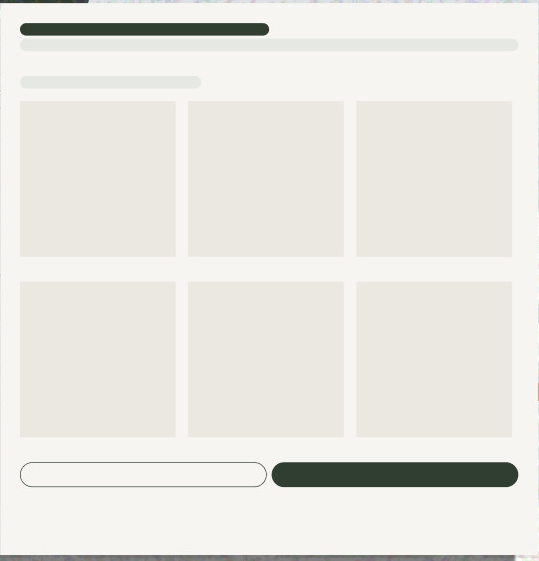
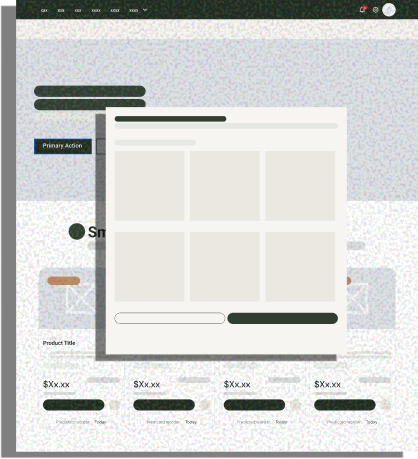
update pawhaus

diff --git a/case-studies/pethaus.html b/case-studies/pethaus.html
@@ -381,7 +381,7 @@
     .ph-solution-fan { position: relative; width: 100%; max-width: 1000px; height: 380px; margin: 0 auto; }
     .ph-solution-fan__card {
       position: absolute; top: 50%; width: 19%; aspect-ratio: 0.82;
-      border-radius: 10px; overflow: hidden; box-shadow: 0 20px 40px rgba(33,40,26,0.28);
+      border-radius: 0; overflow: hidden; box-shadow: 0 20px 40px rgba(33,40,26,0.28);
       cursor: pointer; transition: transform 0.45s cubic-bezier(0.22,1,0.36,1), box-shadow 0.45s ease;
     }
     .ph-solution-fan__card img { width: 100%; height: 100%; object-fit: cover; object-position: top; display: block; }
@@ -392,6 +392,12 @@
     .ph-solution-fan__card:nth-child(5) { left: 76%; transform: translate(-50%,-50%) rotate(11deg);  z-index: 5; }
     .ph-solution-fan__card:nth-child(6) { left: 92%; transform: translate(-50%,-50%) rotate(18deg);  z-index: 6; }
     .ph-solution-fan__card:hover { transform: translate(-50%,-50%) rotate(0deg) scale(1.15) translateY(-16px); z-index: 10; box-shadow: 0 30px 55px rgba(33,40,26,0.4); }
+    /* The mobile carousel's JS clones each card (aria-hidden, for a seamless auto-loop) and
+       appends them into this same container — only the first 6 (:nth-child(1..6)) have a
+       desktop left/rotate rule above, so on desktop the clones fell back to unstyled default
+       positioning and showed up as a stray stack. Hidden here; the mobile media query below
+       turns them back on for the carousel. */
+    .ph-solution-fan__card[aria-hidden="true"] { display: none; }
 
     /* Each "move" repeats: left-aligned tag pill, centered title + hand-written quote,
        left-aligned body copy, then a dark mockup card exported as a flat image (label and
@@ -478,18 +484,36 @@
       .ph-comp-card__inner, .ph-pattern-card__inner { box-shadow: 0 12px 24px rgba(0,0,0,0.25); }
 
       /* Screen fan: the hover-to-front interaction needs a mouse, and the rotated deck
-         reads as clutter at narrow widths — drop it to a plain static row the same way
-         the pattern/comp cards do. */
-      .ph-solution-fan { height: auto; display: flex; flex-wrap: wrap; justify-content: center; gap: 16px; max-width: 100%; }
-      /* Prefixed with .ph-solution-fan (raising specificity above the bare
-         .ph-solution-fan__card:nth-child(n) desktop rules) so this reliably wins
-         regardless of source order or how the browser scores a comma-separated list. */
+         reads as clutter at narrow widths — swap to a continuously auto-scrolling
+         filmstrip instead (JS drives scrollLeft directly every frame, so no scroll-snap —
+         snapping would fight the continuous motion). Scrollbar hidden since position is
+         fully driven by the auto-loop, not manual scrolling, though the strip can still
+         be dragged (auto-loop pauses on touch — see the script block). The centered card
+         is tracked in JS (touch has no :hover) and scaled up via .is-active, and its
+         matching caption word gets the same treatment. Prefixed with .ph-solution-fan to
+         reliably outrank the bare desktop nth-child rules. */
+      .ph-solution-fan {
+        height: auto; display: flex; flex-wrap: nowrap; align-items: center;
+        overflow-x: auto; gap: 16px; scrollbar-width: none; -ms-overflow-style: none;
+        max-width: 100%; padding: 20px calc(50% - 65px); -webkit-overflow-scrolling: touch;
+      }
+      .ph-solution-fan::-webkit-scrollbar { display: none; }
       .ph-solution .ph-solution-fan .ph-solution-fan__card {
-        position: static; width: 130px; transform: none; box-shadow: 0 8px 16px rgba(33,40,26,0.2);
+        position: static; flex: 0 0 130px; width: 130px; transform: scale(0.85); opacity: 0.55;
+        box-shadow: 0 8px 16px rgba(33,40,26,0.2);
+        transition: transform 0.3s ease, opacity 0.3s ease, box-shadow 0.3s ease;
       }
-      .ph-solution .ph-solution-fan .ph-solution-fan__card:hover {
-        transform: translateY(-6px); box-shadow: 0 14px 26px rgba(33,40,26,0.28);
+      /* Turn the cloned cards (hidden by default, see the desktop rule) back on here —
+         the carousel's seamless loop needs them. */
+      .ph-solution-fan__card[aria-hidden="true"] { display: block; }
+      /* !important here: this state class needs to unconditionally win regardless of the
+         unconditional desktop :nth-child(n) rotate rules still technically in scope at this
+         viewport (they lose the cascade to the mobile base rule already, but not reliably to
+         this even-higher-specificity .is-active rule — !important removes any ambiguity). */
+      .ph-solution .ph-solution-fan .ph-solution-fan__card.is-active {
+        transform: scale(1.1) !important; opacity: 1 !important; box-shadow: 0 14px 28px rgba(33,40,26,0.32) !important;
       }
+      .ph-solution-flow__stage.is-active { font-weight: 700 !important; color: var(--ink-dark) !important; transform: scale(1.15) !important; }
 
       /* Persona rows: photo-beside-text only works with room to breathe — stack photo
          above the text column instead of squeezing both into a shared row. The desktop
@@ -963,7 +987,7 @@
               <div class="ph-solution-fan__card"><img src="../Asset/pethaus-solution-screen-productdetail.png" alt="Product Detail"></div>
               <div class="ph-solution-fan__card"><img src="../Asset/pethaus-solution-screen-checkout.png" alt="Checkout"></div>
             </div>
-            <p class="ph-solution-flow__caption"><span class="ph-solution-flow__stage" data-stage="1">Homepage</span> &rarr; <span class="ph-solution-flow__stage" data-stage="2">Build Pet Profile</span> &rarr; <span class="ph-solution-flow__stage" data-stage="3">Filtered Product List</span> &rarr; <span class="ph-solution-flow__stage" data-stage="4">Product Tag</span> &rarr; <span class="ph-solution-flow__stage" data-stage="5">Product Detail (trust tags + ingredient breakdown)</span> &rarr; <span class="ph-solution-flow__stage" data-stage="6">Checkout with reorder reminder</span>. Hover a screen to bring it forward.</p>
+            <p class="ph-solution-flow__caption"><span class="ph-solution-flow__stage" data-stage="1">Homepage</span> &rarr; <span class="ph-solution-flow__stage" data-stage="2">Build Pet Profile</span> &rarr; <span class="ph-solution-flow__stage" data-stage="3">Filtered Product List</span> &rarr; <span class="ph-solution-flow__stage" data-stage="4">Product Tag</span> &rarr; <span class="ph-solution-flow__stage" data-stage="5">Product Detail (trust tags + ingredient breakdown)</span> &rarr; <span class="ph-solution-flow__stage" data-stage="6">Checkout with reorder reminder</span>.<br>Hover a screen to bring it forward.</p>
           </div>
         </div>
 
@@ -1227,6 +1251,78 @@
         hamburger.setAttribute('aria-expanded', 'false');
       });
     });
+
+    // Solution screen fan → mobile/tablet carousel: a continuously auto-scrolling
+    // filmstrip (left to right, one full pass through all 6 screens every 10s) that
+    // wraps seamlessly by scrolling into a cloned second copy of the deck and never
+    // visibly resetting. Whichever card is nearest the center gets .is-active — same
+    // class the desktop hover version uses — so its matching caption word bolds and
+    // scales up too. Pauses on touch (so a manual swipe isn't fought by the loop) and
+    // while the tab or section is out of view; respects prefers-reduced-motion.
+    (function () {
+      const fan = document.querySelector('.ph-solution-fan');
+      if (!fan) return;
+      const originalCards = Array.from(fan.querySelectorAll('.ph-solution-fan__card'));
+      const stages = Array.from(document.querySelectorAll('.ph-solution-flow__stage'));
+      const carouselQuery = window.matchMedia('(max-width: 1024px)');
+      const reducedMotion = window.matchMedia('(prefers-reduced-motion: reduce)');
+      const LOOP_DURATION = 10000;
+
+      originalCards.forEach(card => {
+        const clone = card.cloneNode(true);
+        clone.setAttribute('aria-hidden', 'true');
+        fan.appendChild(clone);
+      });
+      const allCards = Array.from(fan.querySelectorAll('.ph-solution-fan__card'));
+
+      function updateActiveCard() {
+        const fanRect = fan.getBoundingClientRect();
+        const center = fanRect.left + fanRect.width / 2;
+        let closestIndex = 0, closestDist = Infinity;
+        allCards.forEach((card, i) => {
+          const r = card.getBoundingClientRect();
+          const dist = Math.abs((r.left + r.width / 2) - center);
+          if (dist < closestDist) { closestDist = dist; closestIndex = i; }
+        });
+        allCards.forEach((card, i) => card.classList.toggle('is-active', i === closestIndex));
+        const stageIndex = closestIndex % originalCards.length;
+        stages.forEach((span, i) => span.classList.toggle('is-active', i === stageIndex));
+      }
+
+      let loopWidth = 0;
+      function measure() {
+        const firstRect = originalCards[0].getBoundingClientRect();
+        const cloneRect = allCards[originalCards.length].getBoundingClientRect();
+        loopWidth = cloneRect.left - firstRect.left;
+      }
+
+      let rafId = null, startTime = null, pausedTotal = 0, pausedAt = null, paused = false;
+
+      function pause() { if (!paused) { paused = true; pausedAt = performance.now(); } }
+      function resume() { if (paused) { pausedTotal += performance.now() - pausedAt; paused = false; } }
+
+      function tick(now) {
+        if (!paused && !reducedMotion.matches) {
+          if (startTime === null) startTime = now;
+          const elapsed = (now - startTime - pausedTotal) % LOOP_DURATION;
+          fan.scrollLeft = (elapsed / LOOP_DURATION) * loopWidth;
+          updateActiveCard();
+        }
+        rafId = requestAnimationFrame(tick);
+      }
+
+      function start() { if (rafId === null) { startTime = null; pausedTotal = 0; measure(); updateActiveCard(); rafId = requestAnimationFrame(tick); } }
+      function stop() { if (rafId !== null) { cancelAnimationFrame(rafId); rafId = null; } }
+
+      fan.addEventListener('pointerdown', pause);
+      fan.addEventListener('pointerup', () => setTimeout(resume, 2000));
+      fan.addEventListener('pointercancel', () => setTimeout(resume, 2000));
+      document.addEventListener('visibilitychange', () => { document.hidden ? pause() : resume(); });
+      window.addEventListener('resize', measure);
+      carouselQuery.addEventListener('change', () => { carouselQuery.matches ? start() : stop(); });
+
+      if (carouselQuery.matches) start();
+    })();
 
     if (!window.matchMedia('(prefers-reduced-motion: reduce)').matches) {
       gsap.from('#cs-hero .ph-hero__col > *', {
